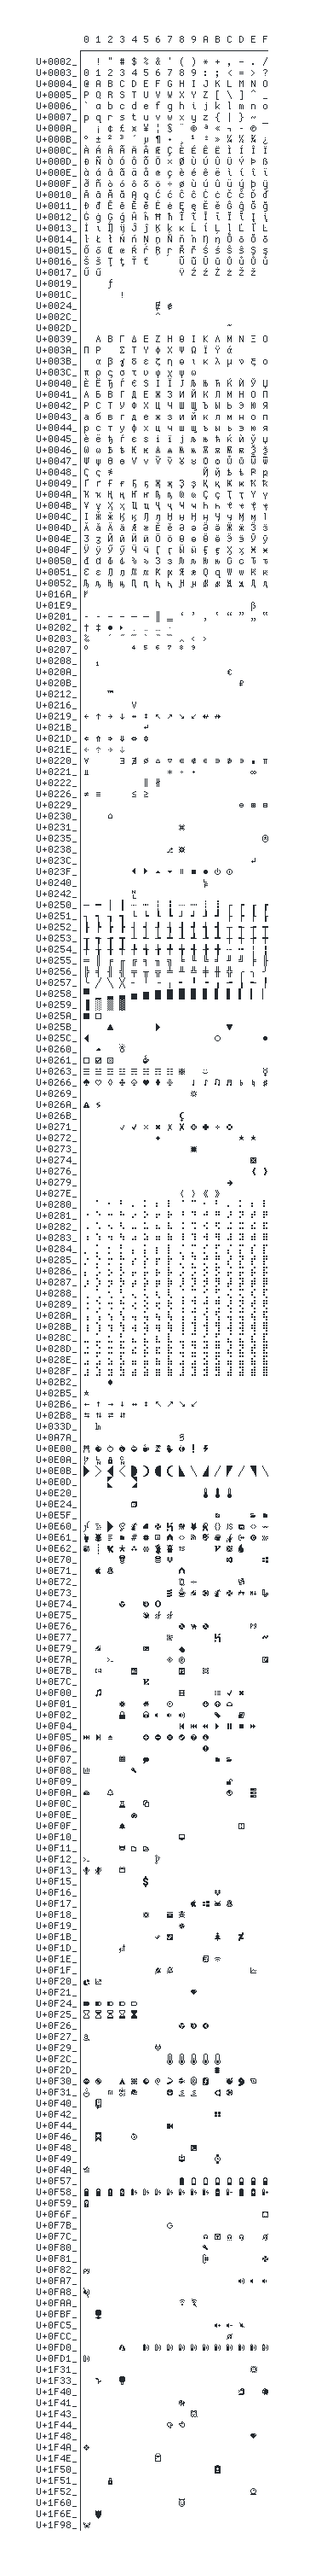
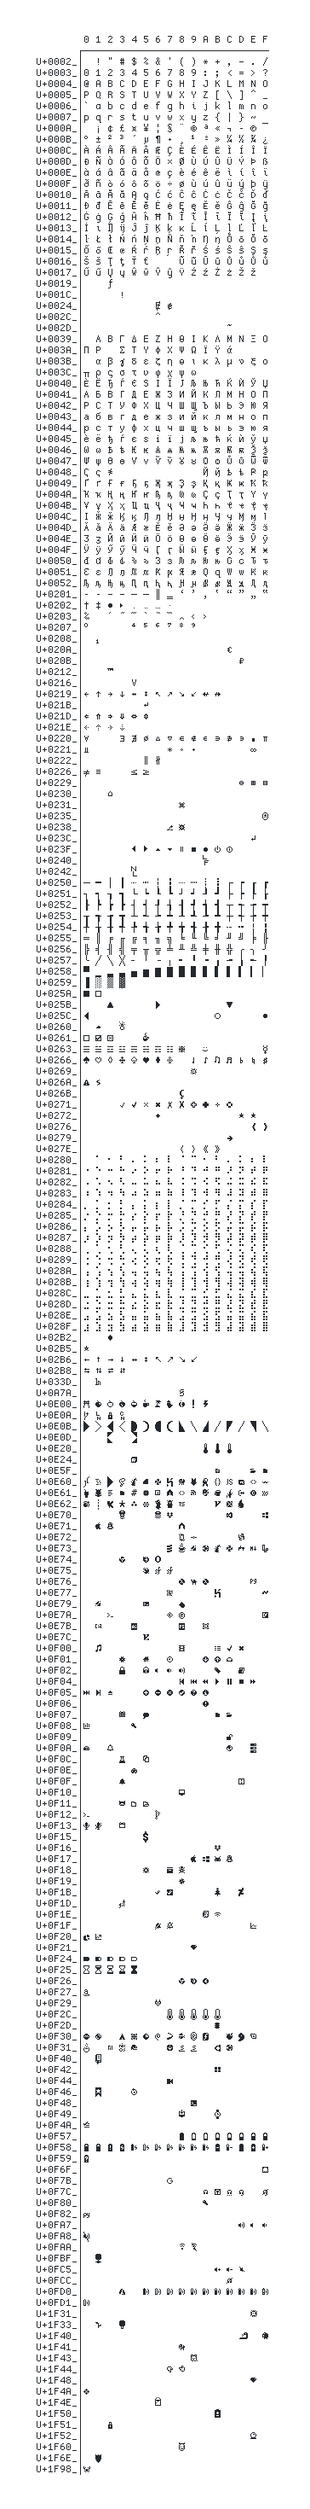
v.1.9.0 add baltic glyphs, start making fullwidth glyphs fullwidth

diff --git a/CHANGELOG.md b/CHANGELOG.md
@@ -9,6 +9,23 @@ The format is based on [Keep a Changelog], and this project adheres to
 
 Nothing!
 
+## [1.9.0]
+
+### Added
+
+- Ŧ (U+0166 LATIN CAPITAL LETTER T WITH STROKE)
+- ŧ (U+0167 LATIN SMALL LETTER T WITH STROKE)
+- Ų (U+0172 LATIN CAPITAL LETTER U WITH OGONEK)
+- ų (U+0173 LATIN SMALL LETTER U WITH OGONEK)
+- Ŵ (U+0174 LATIN CAPITAL LETTER W WITH CIRCUMFLEX)
+- ŵ (U+0175 LATIN SMALL LETTER W WITH CIRCUMFLEX)
+- Ŷ (U+0176 LATIN CAPITAL LETTER Y WITH CIRCUMFLEX)
+- ŷ (U+0177 LATIN SMALL LETTER Y WITH CIRCUMFLEX)
+
+### Changed
+
+- 🐍is now fullwidth to make starship prompts look less ugly
+
 ## [1.8.3]
 
 ### Fixed
